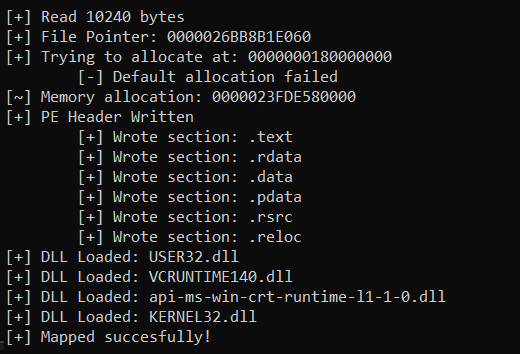
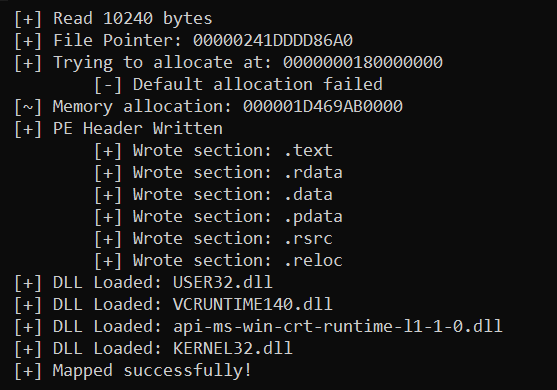
typo

Changed region(s): [[0.0, 0.0311, 0.9231, 0.9944]]

diff --git a/process-redir-mapper/main.cpp b/process-redir-mapper/main.cpp
@@ -45,7 +45,7 @@ int main(int argc, char* argv[])
 		return 1;
 	}
 
-	printf("[+] Mapped succesfully!");
+	printf("[+] Mapped successfully!");
 	NtResumeProcess(h_process);
 	return 0;
 }
